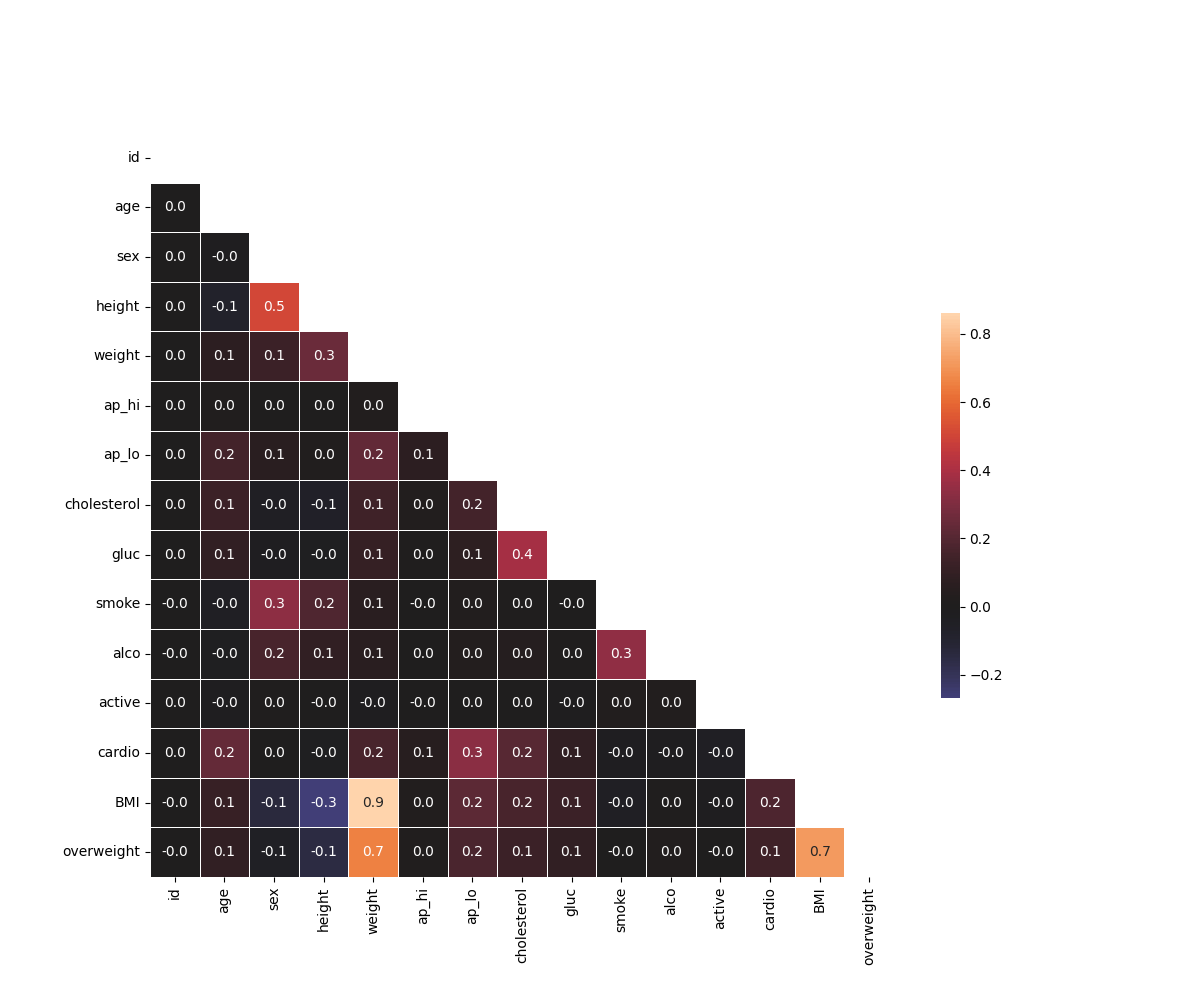
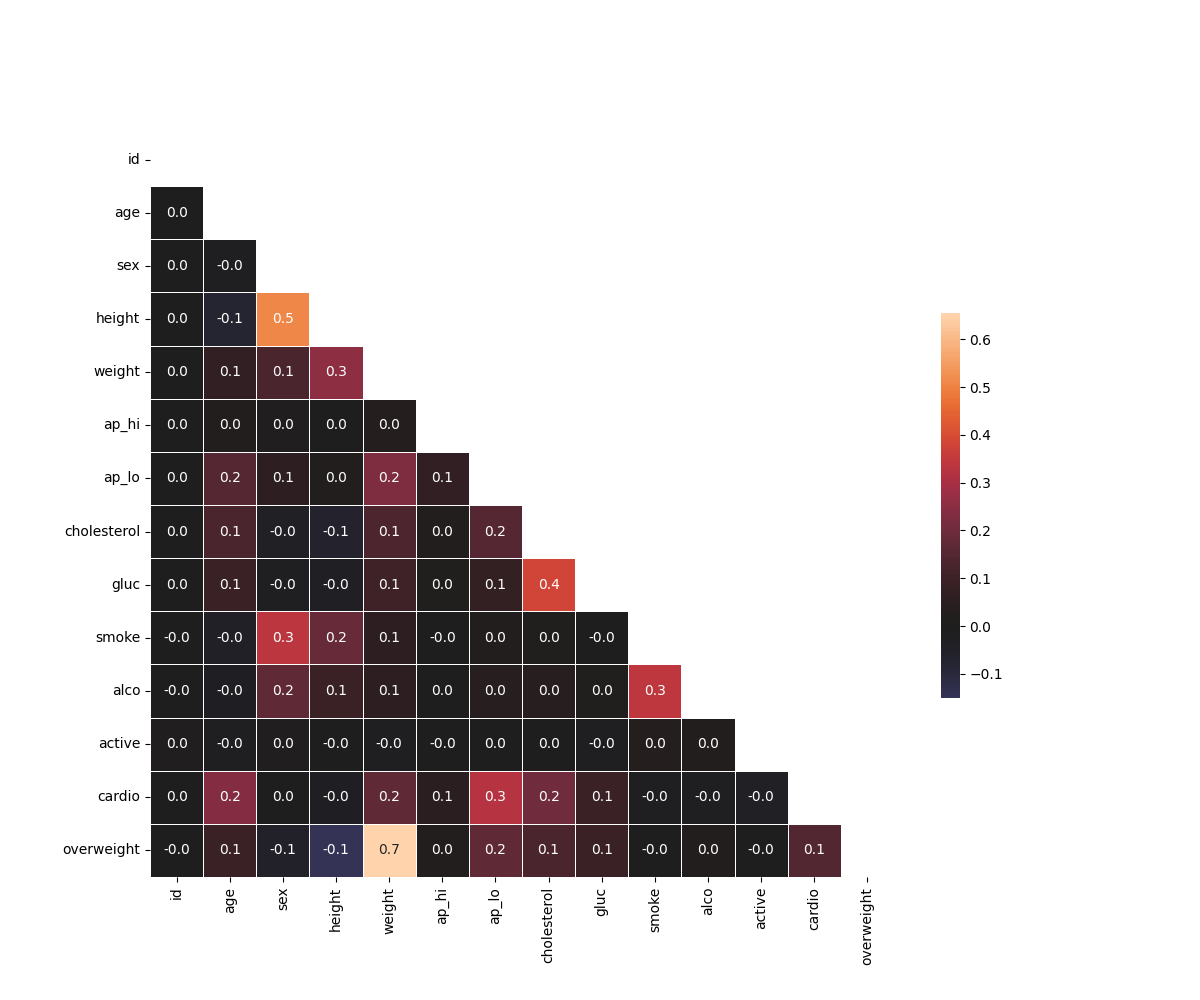
fixed errors and formating

diff --git a/medical_data_visualizer.py b/medical_data_visualizer.py
@@ -7,7 +7,7 @@ import numpy as np
 df = pd.read_csv('medical_examination.csv')
 
 # 2
-df['BMI'] = df['weight'] / ((df['height'] / 100) **2)
+df['BMI'] = df['weight'] / ((df['height'] / 100) ** 2)
 df['overweight'] = (df['BMI'] > 25).astype(int)
 
 # 3
@@ -17,22 +17,27 @@ df['gluc'] = (df['gluc'] > 1).astype(int)
 # 4
 def draw_cat_plot():
     # 5
-    df_cat = pd.melt(df, id_vars='cardio', value_vars=['cholesterol', 'gluc', 'smoke', 'alco', 'active', 'overweight'])
+    df_cat = pd.melt(df,id_vars='cardio',value_vars=['cholesterol', 'gluc', 'smoke', 'alco', 'active', 'overweight'])
     # 6
-    df_cat = df_cat.groupby(['cardio', 'variable','value']).size().reset_index(name='total')
+    df_cat = df_cat.groupby(['cardio', 'variable', 'value']).size().reset_index(name='total')
     
     # 7
-    fig = sns.catplot(data=df_cat, x='variable', y='total', hue='value', col='cardio', kind='bar').figure
-    
+    fig = sns.catplot(
+        data=df_cat,
+        x='variable',
+        y='total',
+        hue='value',
+        col='cardio',
+        kind='bar'
+    ).figure
 
     # 9
     fig.savefig('catplot.png')
     return fig
 
-
 # 10
 def draw_heat_map():
-    # 11
+    # 11: Clean data by filtering out incorrect patient data
     df_heat = df[
         (df['ap_lo'] <= df['ap_hi']) &
         (df['height'] >= df['height'].quantile(0.025)) &
@@ -41,6 +46,9 @@ def draw_heat_map():
         (df['weight'] <= df['weight'].quantile(0.975))
     ]
 
+    expected_columns = ['id', 'age', 'sex', 'height', 'weight', 'ap_hi', 'ap_lo',
+                        'cholesterol', 'gluc', 'smoke', 'alco', 'active', 'cardio', 'overweight']
+    df_heat = df_heat[expected_columns]
 
     # 12
     corr = df_heat.corr()
@@ -52,13 +60,12 @@ def draw_heat_map():
     fig, ax = plt.subplots(figsize=(12, 10))
 
     # 15
-    
     sns.heatmap(
         corr,
         mask=mask,
-        annot=True,          
-        fmt=".1f",           
-        center=0,            
+        annot=True,
+        fmt=".1f",
+        center=0,
         square=True,
         linewidths=0.5,
         cbar_kws={"shrink": 0.5},
